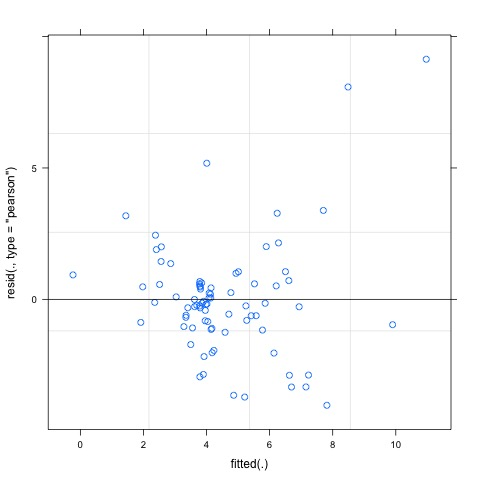
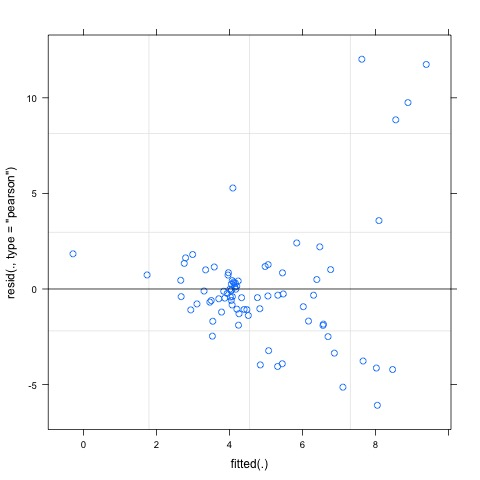
finished the E ratio calculations and analysis

diff --git a/lab_notebook/analysis/CPOM_Flux_Exp_spec_analysis.md b/lab_notebook/analysis/CPOM_Flux_Exp_spec_analysis.md
@@ -6,19 +6,19 @@ This code it to analyze the spec scan data from the treatments with and without 
 
 ## Load Data
 
-    r254 <- read.table("./data/CPOM_Flux_r254.csv", header = T, sep = ",")
+    Eratio <- read.table("./data/CPOM_Flux_Eratio.csv", header = T, sep = ",")
 
 ## Statistical Summary
 
-Summary of the 254:365 absorbance in all of the samples on all days
+Summary of the E2:E3 in all of the samples on all days
 
-    summary(r254$ratio254)
+    summary(Eratio$E2E3)
 
 ~~~~
 
-   Min. 1st Qu.  Median    Mean 3rd Qu.    Max. 
- 0.6973  3.1200  4.1140  4.5540  4.8010 20.1000 
-
+Min. 1st Qu.  Median    Mean 3rd Qu.    Max. 
+ 0.8743  3.1410  4.0500  4.8380  4.7340 21.1400 
+  
 ~~~~
 
 ### Repeated Measures Analysis
@@ -29,50 +29,49 @@ Requires the `lmerTest` package
 
 #### Specify the formula
 
-    r254.mod <- lmer(ratio254 ~ 1 + elapsed.d * CPOM * nutrient + (1 + elapsed.d|bod), r254)
-    summary(r254.mod)
+    E2E3.mod <- lmer(E2E3 ~ 1 + elapsed.d * CPOM * nutrient + (1 + elapsed.d|bod), Eratio)
+    summary(E2E3.mod)
 
 ~~~~
   
 Linear mixed model fit by REML t-tests use Satterthwaite approximations to degrees of
   freedom [merModLmerTest]
-Formula: ratio254 ~ 1 + elapsed.d * CPOM * nutrient + (1 + elapsed.d |      bod)
-   Data: r254
+Formula: E2E3 ~ 1 + elapsed.d * CPOM * nutrient + (1 + elapsed.d | bod)
+   Data: Eratio
 
-REML criterion at convergence: 380
+REML criterion at convergence: 429.2
 
 Scaled residuals: 
     Min      1Q  Median      3Q     Max 
--1.6840 -0.4102 -0.0684  0.2502  3.8161 
+-1.7965 -0.3316 -0.0962  0.2152  3.5484 
 
 Random effects:
  Groups   Name        Variance Std.Dev. Corr 
- bod      (Intercept) 3.01018  1.7350        
-          elapsed.d   0.01761  0.1327   -1.00
- Residual             5.73333  2.3944        
+ bod      (Intercept)  3.76091 1.939         
+          elapsed.d    0.04042 0.201    -1.00
+ Residual             11.47125 3.387         
 Number of obs: 80, groups:  bod, 16
 
 Fixed effects:
-                              Estimate Std. Error       df t value Pr(>|t|)   
-(Intercept)                    4.12632    1.18566 12.24300   3.480  0.00442 **
-elapsed.d                     -0.02406    0.09559 13.40200  -0.252  0.80506   
-CPOMyes                        3.31179    1.67677 12.24300   1.975  0.07124 . 
-nutrientyes                    0.86930    1.67677 12.24300   0.518  0.61339   
-elapsed.d:CPOMyes             -0.23125    0.13518 13.40200  -1.711  0.11019   
-elapsed.d:nutrientyes         -0.09375    0.13518 13.40200  -0.694  0.49983   
-CPOMyes:nutrientyes           -0.77538    2.37131 12.24300  -0.327  0.74920   
-elapsed.d:CPOMyes:nutrientyes  0.07845    0.19118 13.40200   0.410  0.68802   
----
+                              Estimate Std. Error       df t value Pr(>|t|)  
+(Intercept)                    4.16773    1.49907 14.38000   2.780   0.0145 *
+elapsed.d                     -0.01386    0.13991 12.05900  -0.099   0.9227  
+CPOMyes                        2.89416    2.12001 14.38000   1.365   0.1932  
+nutrientyes                    0.93125    2.12001 14.38000   0.439   0.6670  
+elapsed.d:CPOMyes             -0.09627    0.19786 12.05900  -0.487   0.6353  
+elapsed.d:nutrientyes         -0.10431    0.19786 12.05900  -0.527   0.6076  
+CPOMyes:nutrientyes           -0.65706    2.99815 14.38000  -0.219   0.8296  
+elapsed.d:CPOMyes:nutrientyes -0.03335    0.27982 12.05900  -0.119   0.9071  
 
 Correlation of Fixed Effects:
             (Intr) elpsd. CPOMys ntrnty el.:CPOM elps.: CPOMy:
-elapsed.d   -0.875                                            
-CPOMyes     -0.707  0.619                                     
-nutrientyes -0.707  0.619  0.500                              
-elpsd.:CPOM  0.619 -0.707 -0.875 -0.438                       
-elpsd.d:ntr  0.619 -0.707 -0.438 -0.875  0.500                
-CPOMys:ntrn  0.500 -0.438 -0.707 -0.707  0.619    0.619       
-elps.:CPOM: -0.438  0.500  0.619  0.619 -0.707   -0.707 -0.875
+elapsed.d   -0.862                                            
+CPOMyes     -0.707  0.610                                     
+nutrientyes -0.707  0.610  0.500                              
+elpsd.:CPOM  0.610 -0.707 -0.862 -0.431                       
+elpsd.d:ntr  0.610 -0.707 -0.431 -0.862  0.500                
+CPOMys:ntrn  0.500 -0.431 -0.707 -0.707  0.610    0.610       
+elps.:CPOM: -0.431  0.500  0.610  0.610 -0.707   -0.707 -0.862
 
 ~~~~
   
@@ -80,27 +79,27 @@ elps.:CPOM: -0.438  0.500  0.619  0.619 -0.707   -0.707 -0.875
   
 Checking for homogeniety of variance with a plot of the residuals by the fitted
 
-    plot(r254.mod)
-    dev.copy(jpeg, "./output/plots/r254_resid_fitted.jpg")
+    plot(E2E3.mod)
+    dev.copy(jpeg, "./output/plots/E2E3_resid_fitted.jpg")
     dev.off()
 
-![residuals by fitted for the lmer model for the r254 data](../output/plots/r254_resid_fitted.jpg)
+![residuals by fitted for the lmer model for the E2E3 data](../output/plots/E2E3_resid_fitted.jpg)
 
 Overall the assumption seems to be reasonably met.
 
 Checking for normality of the residuals with a qqnorm plot 
 
-    qqnorm(resid(r254.mod))
-    dev.copy(jpeg, "./output/plots/r254_qqnorm_resid.jpg")
+    qqnorm(resid(E2E3.mod))
+    dev.copy(jpeg, "./output/plots/E2E3_qqnorm_resid.jpg")
     dev.off()
 
-![qqnorm plot of the residuals](../output/plots/r254_qqnorm_resid.jpg)
+![qqnorm plot of the residuals](../output/plots/E2E3_qqnorm_resid.jpg)
 
 This plot shows some departure from normality but I will take it.
 
 #### Test for significance of Fixed Effects
   
-    anova(r254.mod)
+    anova(E2E3.mod)
 
 ~~~~
   
@@ -121,71 +120,63 @@ elapsed.d:CPOM:nutrient  0.966   0.966     1 13.402  0.1684 0.688017
 
 ##### Plot of means and scatterplot
 
-    ratio254.CPOM.mean <- as.numeric(tapply(r254$ratio254[r254$CPOM == "yes"], r254$elapsed.d[r254$CPOM == "yes"], mean))  
-    ratio254.noCPOM.mean <- as.numeric(tapply(r254$ratio254[r254$CPOM == "no"], r254$elapsed.d[r254$CPOM == "no"], mean)) 
+Plots of E2:E3
+
+    E2E3.CPOM.mean <- as.numeric(tapply(Eratio$E2E3[Eratio$CPOM == "yes"], Eratio$elapsed.d[Eratio$CPOM == "yes"], mean))  
+    E2E3.noCPOM.mean <- as.numeric(tapply(Eratio$E2E3[Eratio$CPOM == "no"], Eratio$elapsed.d[Eratio$CPOM == "no"], mean))
+    
+Create elapsed day vectors offset by 1
+
+    elapsed.d.offset1 <- Eratio$elapsed.d + 1
 
      par(las = 1) 
-     plot(ratio254 ~ jitter(elapsed.d, 1), data = r254, subset = CPOM == "yes", pch = 1, xlim = c(0, 25), ylim = c(0, 20), xlab = "Days of Incubation", ylab = "DOM Quality (abs254:abs365)", cex = 1.1)
-     points(ratio254 ~ jitter(elapsed.d, 1), data = r254, subset = CPOM == "no", pch = 2, cex = 1.1)
-     points(ratio254.CPOM.mean ~ unique(r254$elapsed.d), type = "b", pch = 16, cex = 1.6)
-     points(ratio254.noCPOM.mean ~ unique(r254$elapsed.d), type = "b", pch = 17, cex = 1.6)
-     legend(15, 20, c("Leaf Litter", "No Leaf Litter"), pch = c(16, 17))
+     plot(E2E3 ~ elapsed.d, data = Eratio, subset = CPOM == "yes", pch = 1, xlim = c(0, 25), ylim = c(0, 20), xlab = "Days of Incubation", ylab = "DOM Quality (E2:E3)", cex = 1.1)
+     points(E2E3 ~ elapsed.d.offset1, data = Eratio, subset = CPOM == "no", pch = 2, cex = 1.1)
+     points(E2E3.CPOM.mean ~ unique(Eratio$elapsed.d), type = "b", pch = 16, cex = 1.6)
+     points(E2E3.noCPOM.mean ~ unique(Eratio$elapsed.d), type = "b", pch = 17, cex = 1.6)
+     legend(15, 15, c("Leaf Litter", "No Leaf Litter"), pch = c(16, 17))
+     dev.copy(jpeg, "./output/plots/CPOM_Flux_E2E3_scatterplot.jpg")
+     dev.off()
+     
+![Scatterplot and means of E2E3 by elapsed day and CPOM](../ouput/plots/CPOM_Flux_E2E3_scatterplot.jpg)
+
+Plots of E4:E6
+
+    E4E6.CPOM.mean <- as.numeric(tapply(Eratio$E4E6[Eratio$CPOM == "yes"], Eratio$elapsed.d[Eratio$CPOM == "yes"], mean))  
+    E4E6.noCPOM.mean <- as.numeric(tapply(Eratio$E4E6[Eratio$CPOM == "no"], Eratio$elapsed.d[Eratio$CPOM == "no"], mean))
+    
+Create elapsed day vectors offset by 1
+
+    elapsed.d.offset1 <- Eratio$elapsed.d + 1
+
+     par(las = 1) 
+     plot(E4E6 ~ elapsed.d, data = Eratio, subset = CPOM == "yes", pch = 1, xlim = c(0, 25), ylim = c(-50, 55), xlab = "Days of Incubation", ylab = "DOM Quality (E4:E6)", cex = 1.1)
+     points(E4E6 ~ elapsed.d.offset1, data = Eratio, subset = CPOM == "no", pch = 2, cex = 1.1)
+     # points(E4E6.CPOM.mean ~ unique(Eratio$elapsed.d), type = "b", pch = 16, cex = 1.6)
+     # points(E4E6.noCPOM.mean ~ unique(Eratio$elapsed.d), type = "b", pch = 17, cex = 1.6)
+     legend(15, 55, c("Leaf Litter", "No Leaf Litter"), pch = c(16, 17))
+     dev.copy(jpeg, "./output/plots/CPOM_Flux_E4E6_scatterplot.jpg")
+     dev.off()
+     
+![Scatterplot and means of E4E6 by elapsed day and CPOM](../ouput/plots/CPOM_Flux_E4E6_scatterplot.jpg)
 
 ##### Boxplots  
-  
-    par(mfcol = c(1, 4), mar = c(3, 4, 4, 1))
-    plot(ratio254 ~ day, data = r254, subset = CPOM == "yes" & nutrient == "yes", ylim = c(0, 20), col = "dark red", axes = F, xlab = " ", ylab = "Proxy for Labile Dissolved Organic Matter (abs254:abs365)")
-    axis(1, at = c(1, 2, 3, 4, 5), labels = c("10-Jun", "12-Jun", "17-Jun", "24-Jun", "1-Jul"))
-    axis(2,  las = 2)
-    text(3, 20, "Leaf + Enriched")
-    plot(ratio254 ~ day, data = r254, subset = CPOM == "yes" & nutrient == "no", ylim = c(0, 20), col = "dark red", axes = F, xlab = " ", ylab = " ")
-    axis(1, at = c(1, 2, 3, 4, 5), labels = c("10-Jun", "12-Jun", "17-Jun", "24-Jun", "1-Jul"))
-#    axis(2,  las = 2)
-    text(3, 20, "Leaf + Ambient")
-    plot(ratio254 ~ day, data = r254, subset = CPOM == "no" & nutrient == "yes", ylim = c(0, 20), col = "dark red", axes = F, xlab = " ", ylab = " ")
-    axis(1, at = c(1, 2, 3, 4, 5), labels = c("10-Jun", "12-Jun", "17-Jun", "24-Jun", "1-Jul"))
-  #   axis(2,  las = 2)
-    text(3, 20, "No-Leaf + Enriched")
-    plot(ratio254 ~ day, data = r254, subset = CPOM == "no" & nutrient == "no", ylim = c(0, 20), col = "dark red", axes = F, xlab = " ", ylab = " ")
-    axis(1, at = c(1, 2, 3, 4, 5), labels = c("10-Jun", "12-Jun", "17-Jun", "24-Jun", "1-Jul"))
-    #  axis(2,  las = 2)
-    text(3, 20, "No-Leaf + Ambient")
-
 
     par(mfcol = c(1, 2), mar = c(5, 5, 0, 0 ))
-    plot(ratio254 ~ day, data = r254, subset = CPOM == "yes", ylim = c(0, 20), col = "white", axes = F, xlab = " ", ylab = "Labile Dissolved Organic Matter (abs254:abs365)")
+    plot(E2E3 ~ day, data = Eratio, subset = CPOM == "yes", ylim = c(0, 25), col = "white", axes = F, xlab = " ", ylab = "Labile Dissolved Organic Matter (E2:E3)")
     axis(1, at = c(1, 2, 3, 4, 5), labels = c("0", "2", "7", "14", "21"))
     axis(2,  las = 2)
     text(3, 17, "Leaf Litter")
     par(mar = c(5, 0, 0, 5))
-    plot(ratio254 ~ day, data = r254, subset = CPOM == "no", ylim = c(0, 20), col = 8, axes = F, xlab = " ", ylab = " ")
+    plot(E2E3 ~ day, data = Eratio, subset = CPOM == "no", ylim = c(0, 25), col = 8, axes = F, xlab = " ", ylab = " ")
     axis(1, at = c(1, 2, 3, 4, 5), labels = c("0", "2", "7", "14", "21") )
-    #    axis#(2,  las = 2)
+    #axis(2,  las = 2)
     text(3, 17, "No Leaf Litter")
     text(-2, -2, "Days Incubated")
-    
 
-    dev.copy(png, "./output/plots/cpom_flux_ratio254_by_day_CPOM.png")
+    dev.copy(png, "./output/plots/cpom_flux_E2E3_by_day_CPOM.png")
     dev.off()
 
-![ratio254 by day with CPOM](../output/plots/cpom_flux_ratio254_by_day_CPOM.png)
+![E2E3 by day with CPOM](../output/plots/cpom_flux_E2E3_by_day_CPOM.png)
 
-_ratio254 by day with CPOM_
-
-    plot(ratio254 ~ day, data = r254, subset = CPOM == "no", ylim = c(0, 20), main = "NO-CPOM", col = 8)
-    dev.copy(png, "./output/plots/cpom_flux_ratio254_by_day_noCPOM.png")
-    dev.off()
-
-![ratio254 by day with no CPOM](../output/plots/cpom_flux_ratio254_by_day_noCPOM.png)
-
-_ratio254 by day with no CPOM_
-    
-    interaction.plot(r254$day, r254$CPOM, r254$ratio254, fun = "mean", xlab = "day", ylab = "ratio of absorbance at 254 to 365 nm", trace.label = "CPOM")
-    dev.copy(png, "./output/plots/cpom_flux_ratio254_by_day_interaction.png")
-    dev.off()
-
-![ratio254 interaction between CPOM and day](../output/plots/cpom_flux_ratio254_by_day_interaction.png)
-
-_ratio254 interaction between CPOM and day_
-
-
+_E2E3 by day with CPOM_

diff --git a/lab_notebook/analysis/CPOM_Flux_Exp_spec_calc.md b/lab_notebook/analysis/CPOM_Flux_Exp_spec_calc.md
@@ -49,40 +49,44 @@ Add a to the data frame
 
 ## Data Analysis
 
-### Calculate E2E3
+### Calculate E-ratios  
 
-This is the ratio of the absorption at 250 to 365nm and is correlated with the molecular weight of the DOM 
+The E2:E3 is the ratio of the absorption at 250 to 365nm and is correlated with the molecular weight of the DOM 
 
 Reference
 
 > De Haan H. and T. De Boer. 1987. Applicability of light absorbance and fluorescence as measures of concentration and molecular size of dissolved organic carbon in humic Lake Tjeukemeer. Water Research 21: 731-734.
 
+The E4:E6 is the ratio of the absorption at 465 to 665nm and is shown to be correlated with the amount of humification in the sample.
+
+Reference
+
+> Sensei, N., T. M. Miano, M. R. Provenzano, and G. Brunetti. 1989. Spectroscopic and composition of I.H.S.S. reference and standard fulvic and humic acids of various origin. Science of the Total Environment 81/82: 143-156.
+
     E2E3.a <- spec$a[spec$wl == 250] / spec$a[spec$wl == 365]
+    E4E6.a <- spec$a[spec$wl == 465] / spec$a[spec$wl == 665]
     bod250 <- spec$bod[spec$wl == 250]
     CPOM250 <- spec$CPOM[spec$wl == 250]
     Nutrient250 <- spec$Nutrient[spec$wl == 250]
     day250 <- spec$day[spec$wl == 254]
-    E2E3 <- data.frame(bod250, day250, CPOM250, Nutrient250, E2E3.a)
-    names(E2E3) <- c("bod", "day", "CPOM", "nutrient", "E2E3")
+    Eratio <- data.frame(bod250, day250, CPOM250, Nutrient250, E2E3.a, E4E6.a)
     
-    E4E6.a <- spec$a[spec$wl == 465] / spec$a[spec$wl == 665]
-    
-    elapsed10 <- as.numeric(difftime(E2E3$day[E2E3$day == "2014-06-10"], E2E3$day[E2E3$day == "2014-06-10"], units = "days"))
-    elapsed12 <- as.numeric(difftime(E2E3$day[E2E3$day == "2014-06-12"], E2E3$day[E2E3$day == "2014-06-10"], units = "days"))
-    elapsed17 <- as.numeric(difftime(E2E3$day[E2E3$day == "2014-06-17"], E2E3$day[E2E3$day == "2014-06-10"], units = "days"))
-    elapsed24 <- as.numeric(difftime(E2E3$day[E2E3$day == "2014-06-24"], E2E3$day[E2E3$day == "2014-06-10"], units = "days"))
-    elapsed01 <- as.numeric(difftime(E2E3$day[E2E3$day == "2014-07-01"], E2E3$day[E2E3$day == "2014-06-10"], units = "days"))
+    elapsed10 <- as.numeric(difftime(Eratio$day[Eratio$day == "2014-06-10"], Eratio$day[Eratio$day == "2014-06-10"], units = "days"))
+    elapsed12 <- as.numeric(difftime(Eratio$day[Eratio$day == "2014-06-12"], Eratio$day[Eratio$day == "2014-06-10"], units = "days"))
+    elapsed17 <- as.numeric(difftime(Eratio$day[Eratio$day == "2014-06-17"], Eratio$day[Eratio$day == "2014-06-10"], units = "days"))
+    elapsed24 <- as.numeric(difftime(Eratio$day[Eratio$day == "2014-06-24"], Eratio$day[Eratio$day == "2014-06-10"], units = "days"))
+    elapsed01 <- as.numeric(difftime(Eratio$day[Eratio$day == "2014-07-01"], Eratio$day[Eratio$day == "2014-06-10"], units = "days"))
     elapsed.d <- c(elapsed10, elapsed12, elapsed17, elapsed24, elapsed01)
 
-#### Make Data Frame of E2E3 with elapsed time
+#### Make Data Frame of Eratio with elapsed time
 
-** This is not working yet.  I think the problem is with sorting the E4E6.a vector.  I am getting:  `Error in E4E6.a[order(as.Date(E2E3$day)), ] : 
-  incorrect number of dimensions` **
     
-    # the order stmnt is to sort E2E3 so that it matches the sort of elapsed.d
-    E.ratios <- data.frame(E2E3[order(as.Date(E2E3$day)), ], elapsed.d, E4E6.a[order(as.Date(E2E3$day)), ]) 
+    # the order stmnt is to sort E2E3 and E4E6 so that it matches the sort of elapsed.d
+    Eratio <- data.frame(Eratio[order(as.Date(Eratio$day)), ], elapsed.d)
+    names(Eratio) <- c("bod", "day", "CPOM", "nutrient", "E2E3", "E4E6", "elapsed.d")
 
 #### Make Data File for the Calculated Data
 
-    write.table(E2E3, "./data/CPOM_Flux_E2E3.csv", quote = F, row.names = F, sep = ",")
+    write.table(Eratio, "./data/CPOM_Flux_Eratio.csv", quote = F, row.names = F, sep = ",")
+
 
